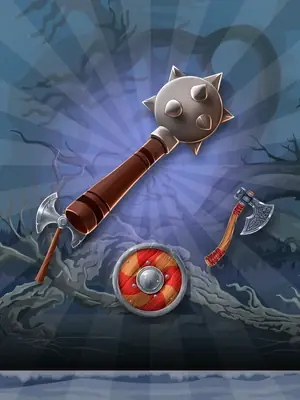
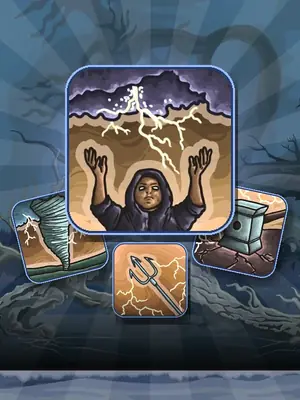
Round 14: Storm Chaser gets its own lightning symbol set and cover
Claude-Session: https://claude.ai/code/session_01LcC21fng844zb5K8BRYuAt

diff --git a/LuckyVault/public/sw.js b/LuckyVault/public/sw.js
@@ -1,5 +1,5 @@
 // Offline cache for the game client (API calls always go to the network).
-const V = 'lv-v69';
+const V = 'lv-v70';
 const FILES = ['./', './index.html', './config.js', './manifest.webmanifest', './js/slots-engine.js', './js/catalog.js', './js/tables-engine.js', './js/tables-ui.js', './js/social.js', './js/fx.js', './js/feat-ui.js', './js/hov-ui.js', './js/roadmap.js', './js/vegas.js', './js/rules.js', './js/onboard.js', './js/friends-ui.js', './js/rg.js', './js/support-ui.js', './js/replay.js', './js/fx2.js', './js/i18n.js', './js/iap.js', './assets/fonts/Anton.woff2', './assets/fonts/Cinzel.woff2', './icons/icon-192.png', './icons/icon-512.png'];
 self.addEventListener('install', e => { e.waitUntil(caches.open(V).then(c => c.addAll(FILES)).then(() => self.skipWaiting())); });
 self.addEventListener('activate', e => { e.waitUntil(caches.keys().then(ks => Promise.all(ks.filter(k => k !== V).map(k => caches.delete(k)))).then(() => self.clients.claim())); });

diff --git a/LuckyVault/tools/build_skins.py b/LuckyVault/tools/build_skins.py
@@ -284,3 +284,4 @@ json.dump(man, open(OUT + '/manifest.json', 'w'), indent=1, ensure_ascii=False)
 # lucky-clover    <- rpg-fairy-loot-icons: h1 32 ladybugs, h2 34 flower ring, h3 38 fairy jar, h4 14 toadstool, l1 12 leaf, l2 41 flower, l3 35 emerald ring, l4 31 bee, l5 43 pouch, W 11 wand, S 36 crystal ball
 # panda-fortune <- rpg-monk-skill-game-icons (square painted tiles, rounded + gold rim): h1 28 panda, h2 27 tiger, h3 26 crane, h4 29 snake, l1 37 lotus, l2 9 yin-yang, l3 35 wine jar, l4 44 incense urn, l5 48 prayer beads, W 16 golden orb, S 10 scripture book
 # royal-crown-classic <- high-quality-rpg-loot-icons (h1 31 crown, h2 27 trophy, h3 36 gold key, h4 9 four-leaf clover) + fruits pack lows (30 cherries, 18 lemon, 21 orange, 10 grapes, 38 strawberry); W/S kept
+# storm-chaser <- lightning-mage-skills-icon-pack (rounded tiles, blue rim): h1 15 storm caller, h2 45 tornado, h3 35 hammer, h4 43 trident, l1 20 bolts, l2 19 orb, l3 18 orbs, l4 12 spellbook, l5 24 scroll, W 16 lightning fist, S 5 storm sky (was sharing Thor's Hammer viking icons)

diff --git a/LuckyVault/CHANGELOG.md b/LuckyVault/CHANGELOG.md
@@ -368,3 +368,6 @@ Platform release: everything on the "do all of these" list except the public dep
 ## Round 13 (17:58) — Announcer voice-overs
 - Benchmark: competitor apps call out BIG WIN / LEVEL UP with a voice.
 - Added 5 Kenney CC0 voice clips: big win, grand jackpot, level up, mission complete, baccarat/DT tie. sw lv-v69. Tests 90/90.
+
+## Round 14 (18:10) — Storm Chaser own symbol set
+- Was sharing Thor's Hammer viking icons; now uses CraftPix lightning-mage skill tiles (blue rim) + new cover. sw lv-v70. Tests 90/90.
